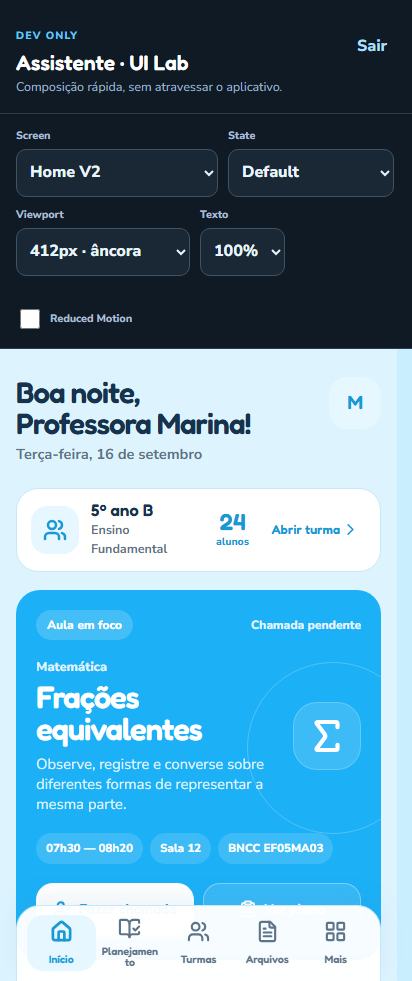
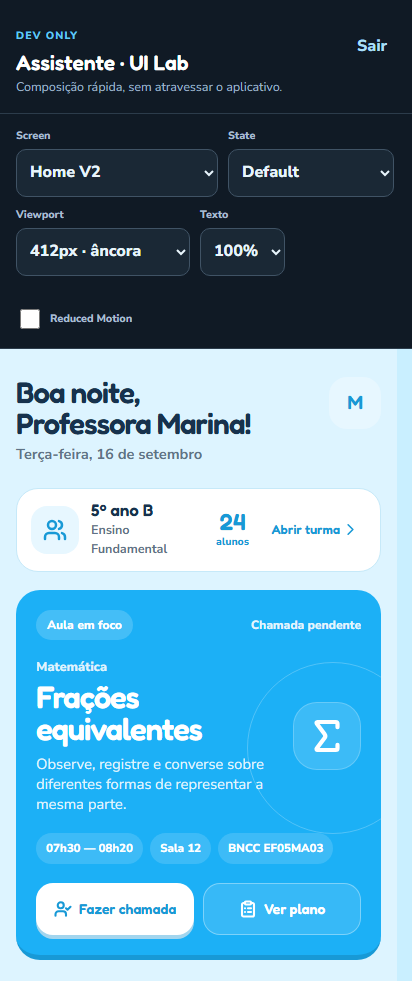
fix: keep UI Lab navigation in flow

Changed region(s): [[0.0291, 0.9174, 0.932, 1.0]]

diff --git a/src/v2/lab/ui-lab.css b/src/v2/lab/ui-lab.css
@@ -3,5 +3,5 @@
 .ui-lab__header span { color: #62c8f5; font: 800 .65rem/1 var(--v2-font-family); letter-spacing: .12em; }.ui-lab__header h1 { margin: 6px 0 3px; font: 600 1.3rem/1.1 Fredoka, sans-serif; }.ui-lab__header p { margin: 0; color: #9eb3c5; font-size: .78rem; }.ui-lab__header a { display: grid; min-width: 48px; min-height: 48px; place-items: center; color: #a9dff7; font-weight: 800; text-decoration: none; }
 .ui-lab__controls { display: flex; flex-wrap: wrap; gap: 10px; padding: 14px 24px; border-bottom: 1px solid #2c3c4b; }.ui-lab__controls label { display: grid; gap: 5px; color: #a9bdd0; font-size: .67rem; font-weight: 800; }.ui-lab__controls select { min-height: 48px; padding: 0 9px; border: 1px solid #405365; border-radius: 10px; background: #1a2835; color: #e8f5fc; font: inherit; }.ui-lab__switch { display: flex !important; min-height: 48px; align-items: center; flex-direction: row !important; gap: 7px !important; padding-top: 18px; }.ui-lab__switch input { width: 20px; height: 20px; accent-color: #168be0; }
 .ui-lab__stage { display: grid; place-items: start center; min-height: calc(100dvh - 212px); padding: 24px; overflow-x: hidden; overflow-y: visible; }.ui-lab__device { width: min(100%, 412px); height: min(720px, calc(100dvh - 212px)); max-width: 100%; min-height: min(720px, calc(100dvh - 212px)); overflow-x: clip; overflow-y: auto; position: relative; transform: translateZ(0); border-radius: 28px; background: #c9efff; box-shadow: 0 20px 60px rgb(0 0 0 / 35%); scrollbar-gutter: stable; }.ui-lab__device[data-reduced-motion="true"] *, .ui-lab__device[data-reduced-motion="true"] *::before, .ui-lab__device[data-reduced-motion="true"] *::after { animation: none !important; transition: none !important; }
-.ui-lab__device .v2-root [class*="__bottom-nav"] { position: sticky; bottom: 0; }
+.ui-lab__device .v2-root [class*="__bottom-nav"] { position: static; width: min(100%, var(--v2-content-max)); margin: 0 auto; }
 @media (max-width: 640px) { .ui-lab__header, .ui-lab__controls { padding-inline: 16px; }.ui-lab__stage { padding: 0; }.ui-lab__device { border-radius: 0; } }
